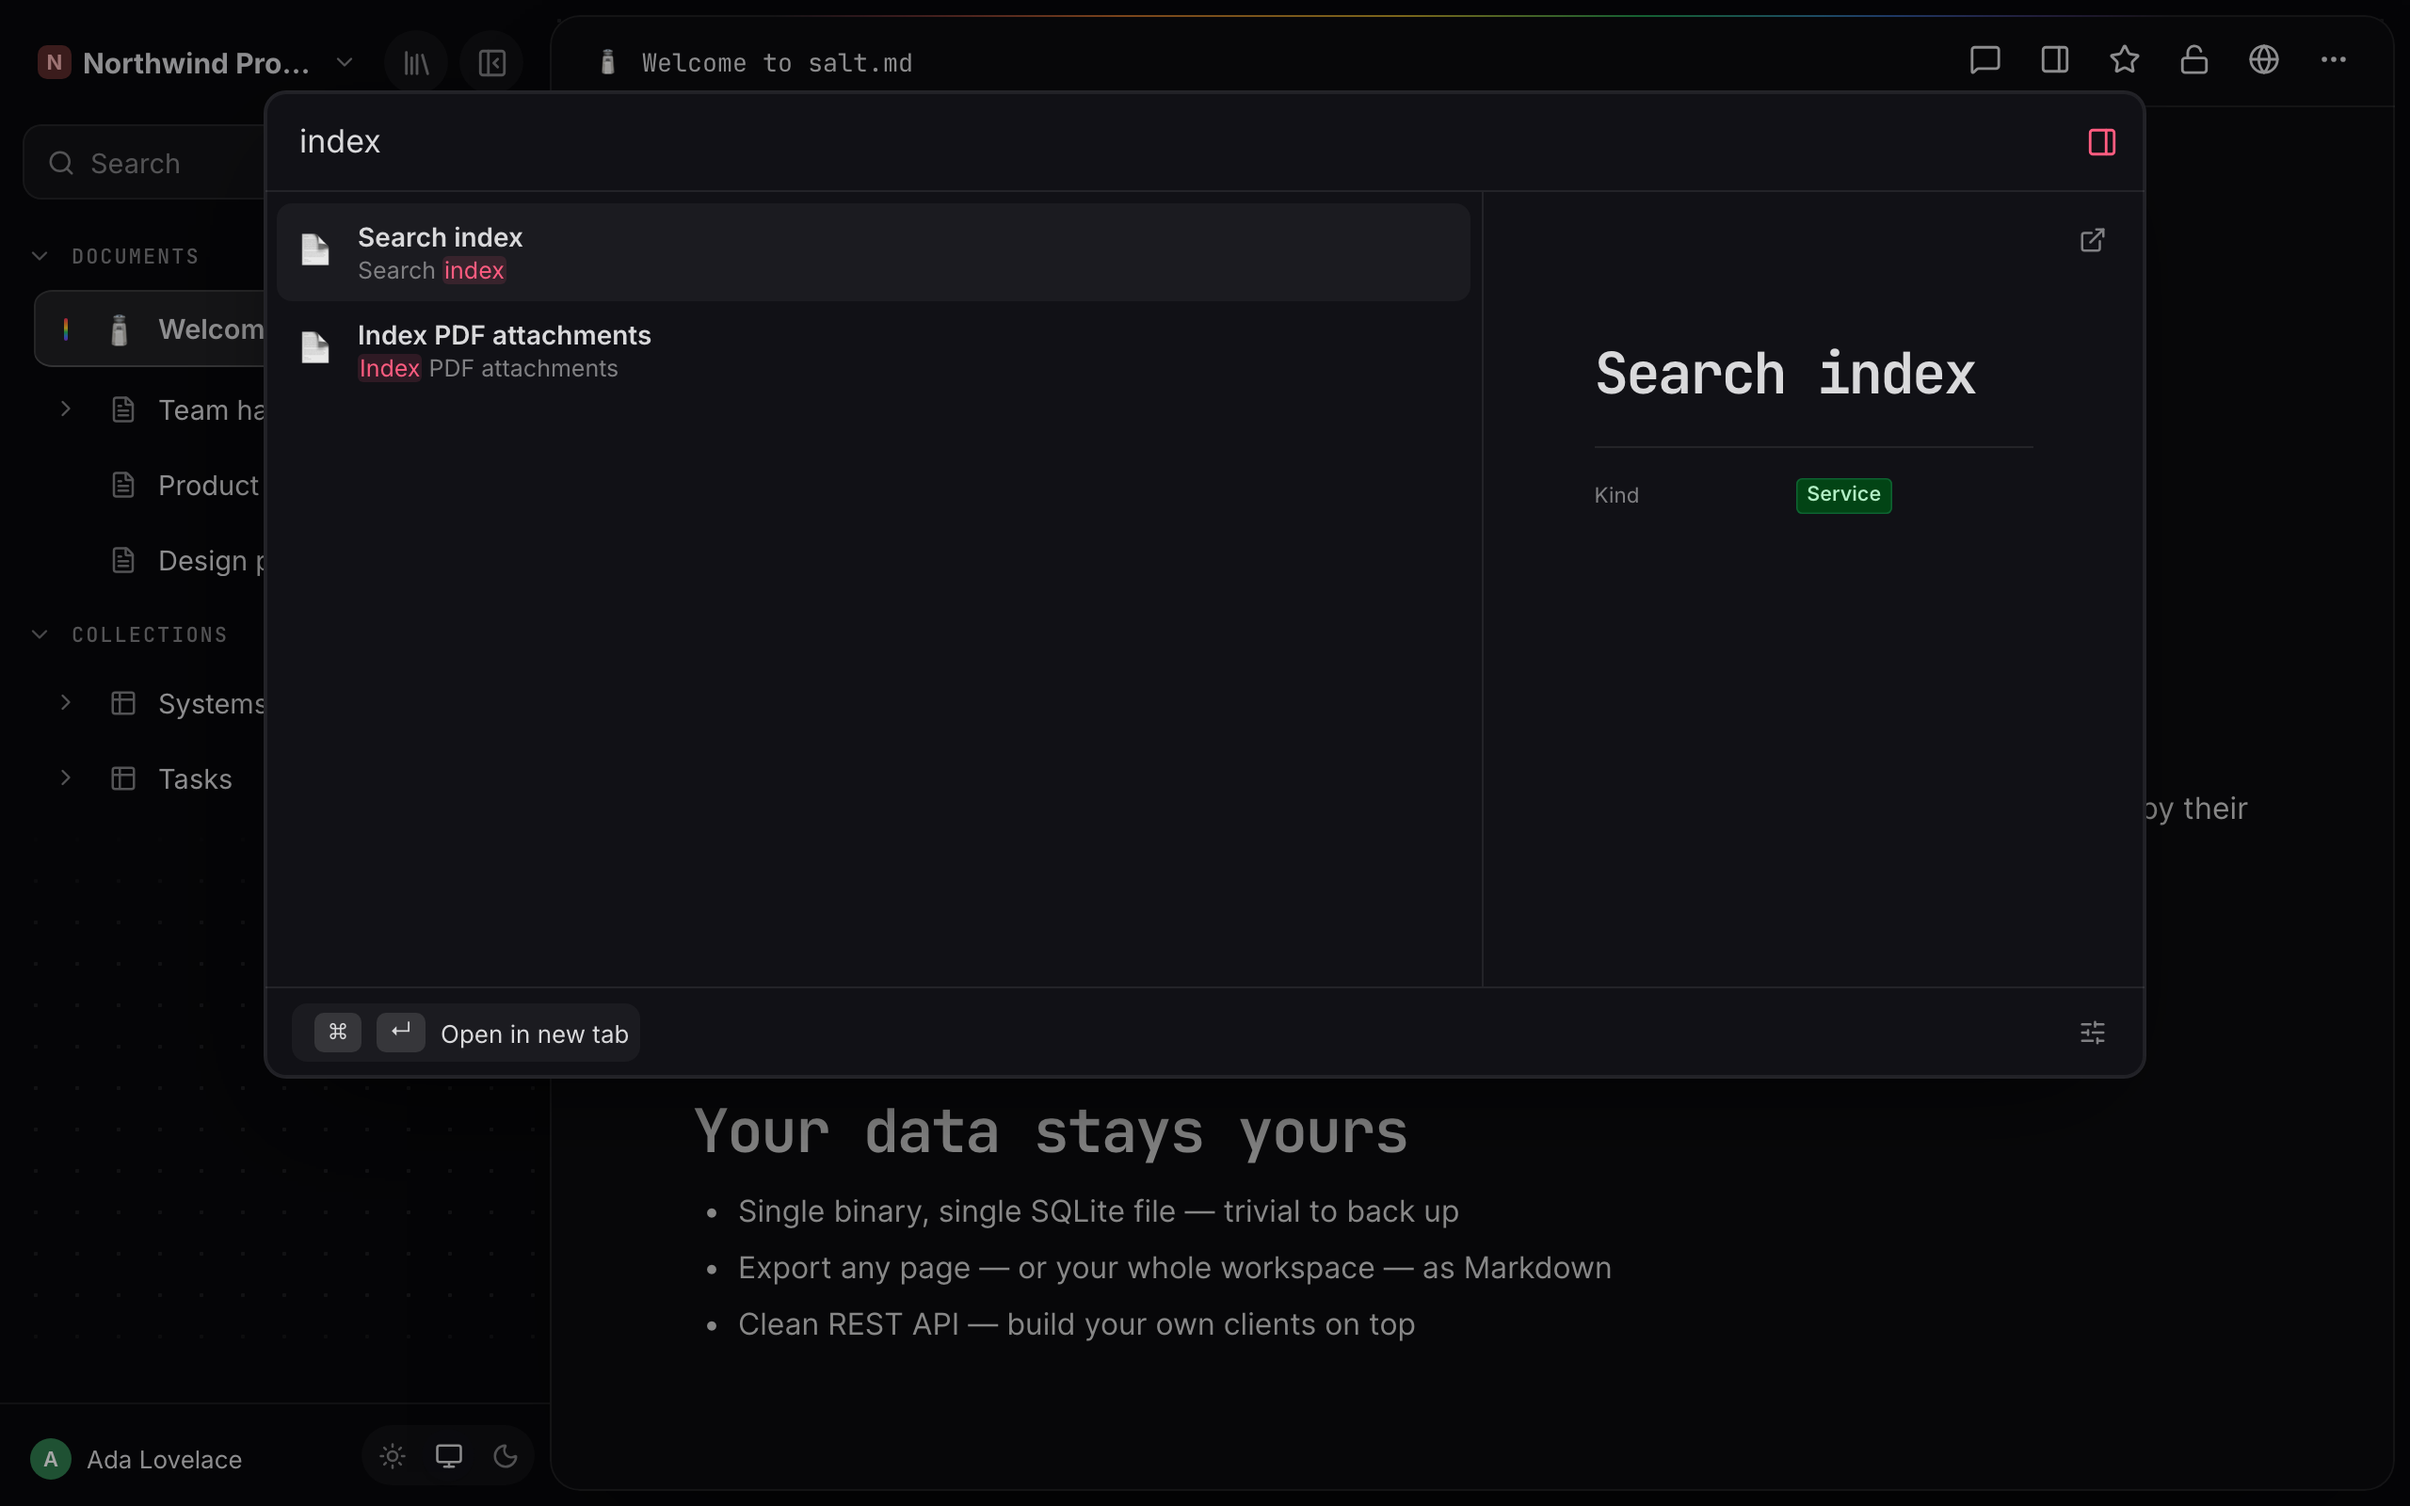
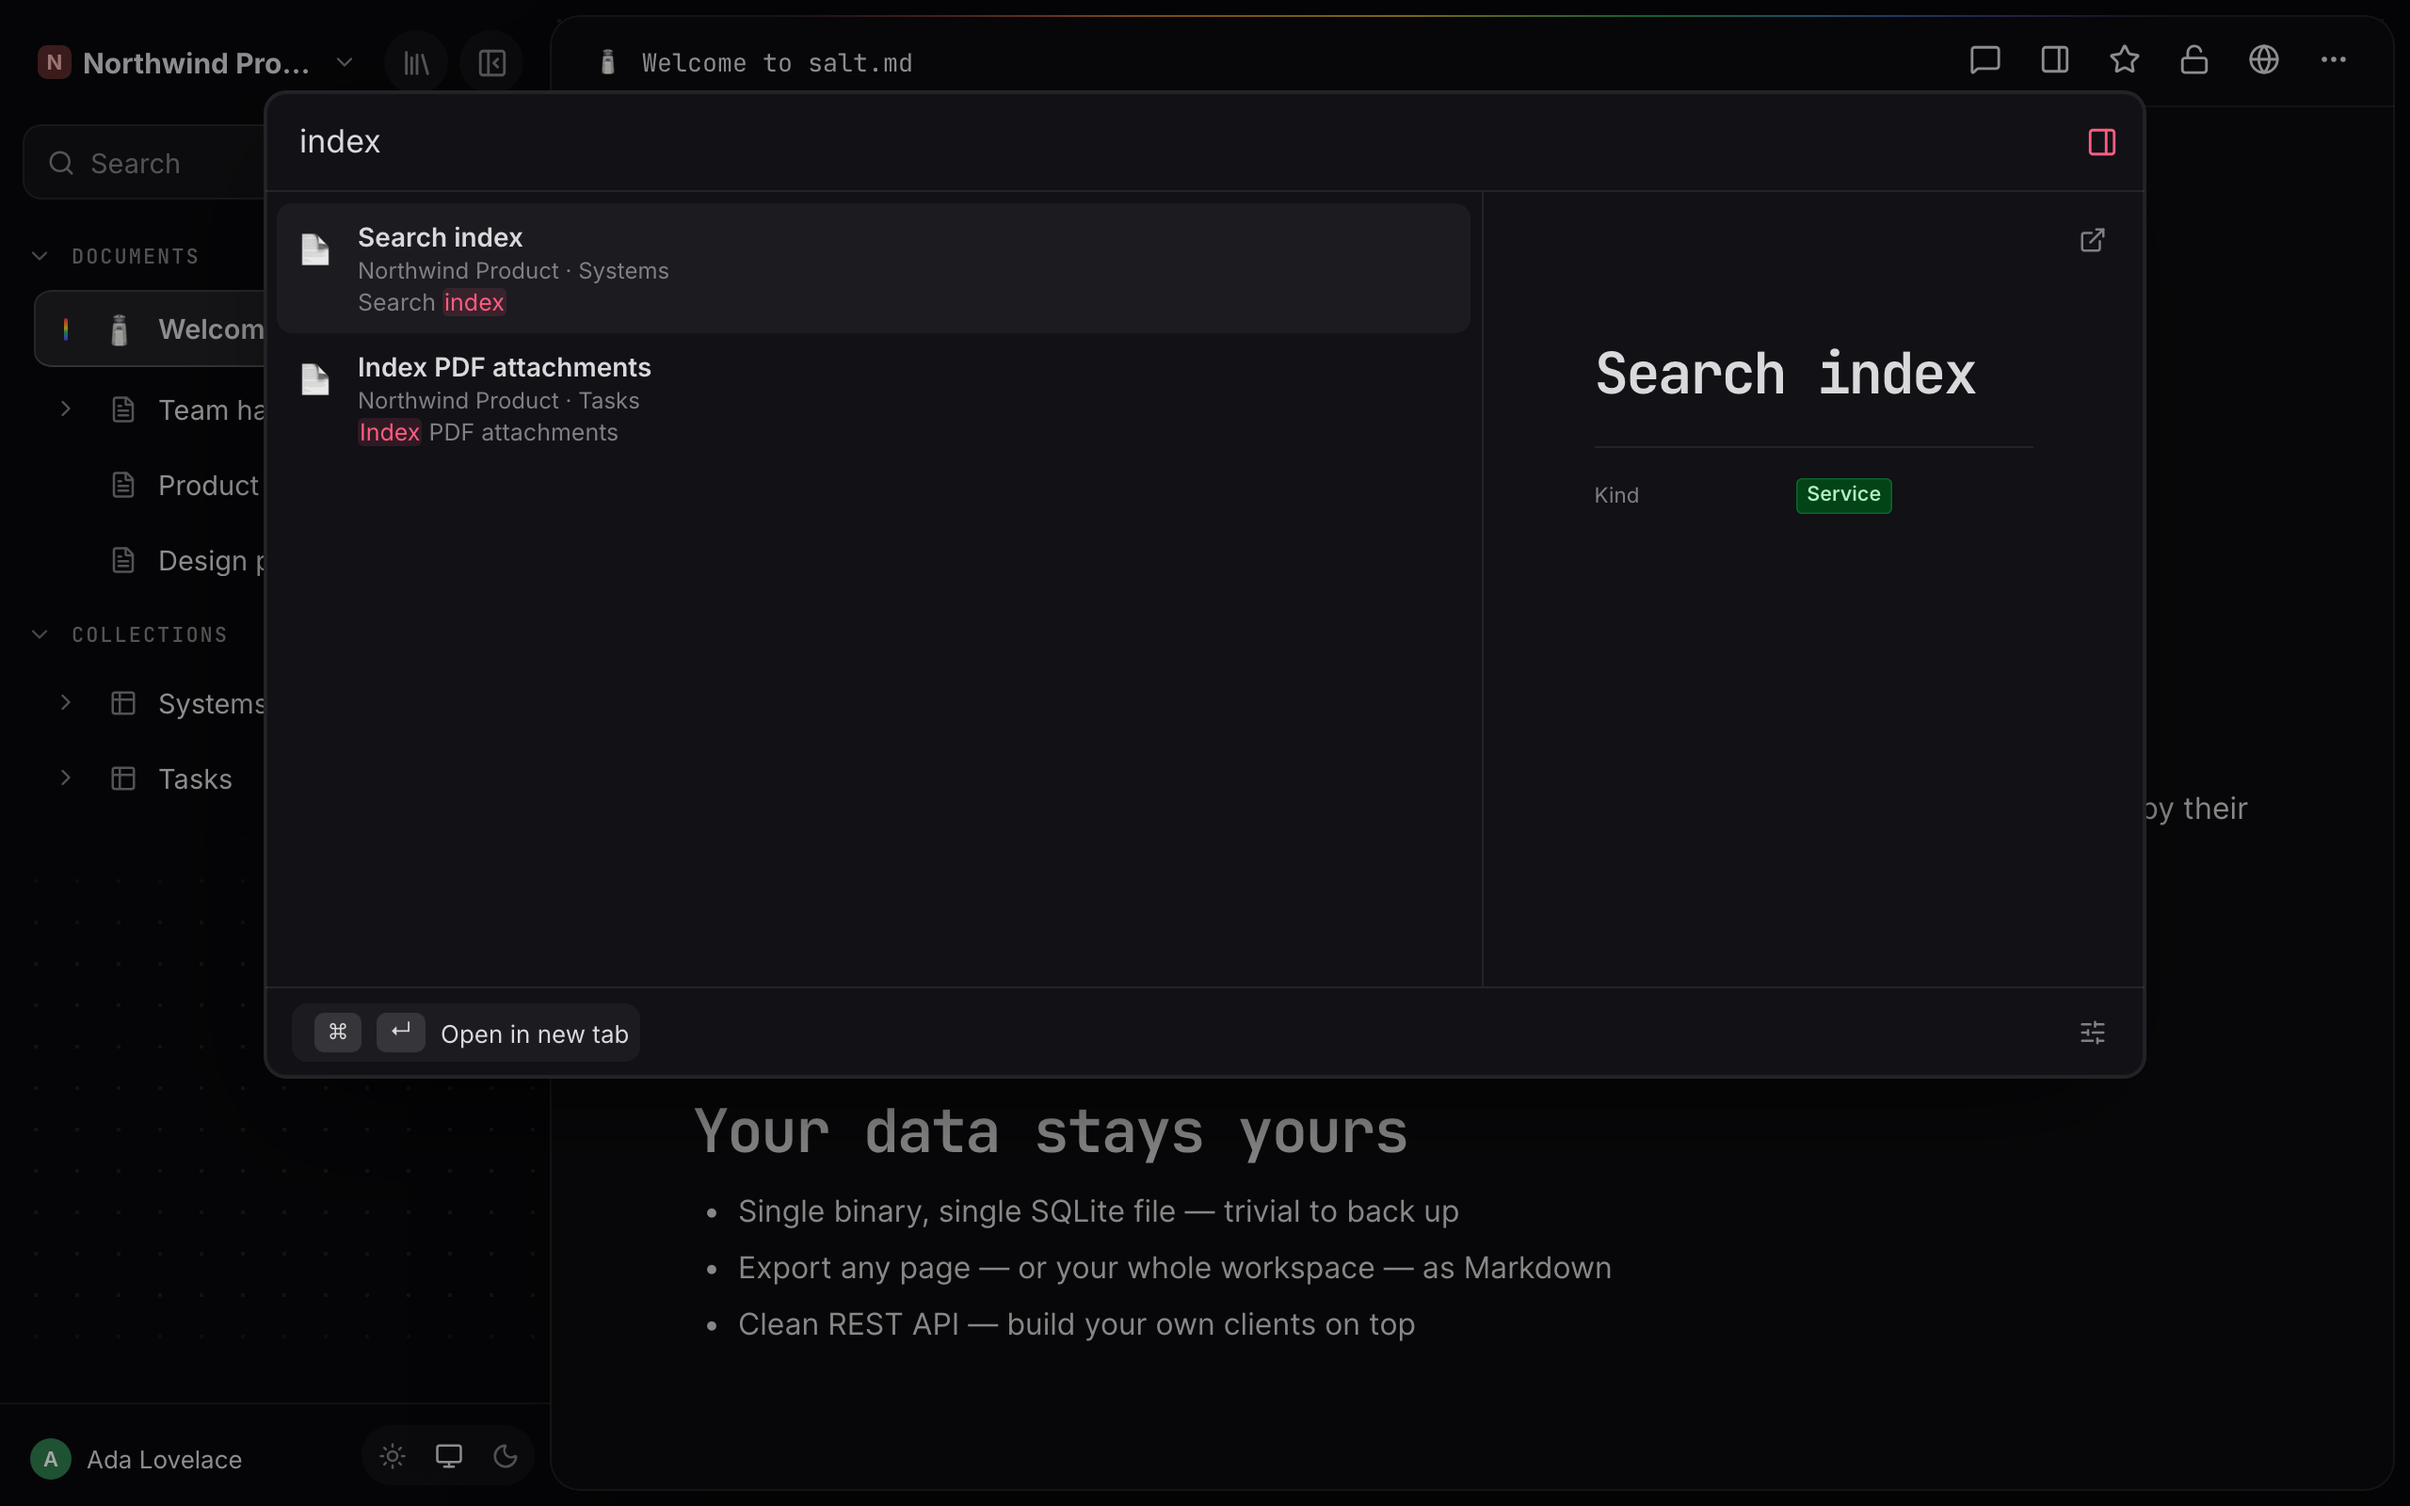
Link collection rows from @-mentions; annotate search hits
- @/[[ picker completes up to five collection rows from the server
  search (rows never enter the client page list), each marked
  'in {collection}'; stale answers fall back to local matches.
- /api/search hits carry workspaceId plus the parent collection, so
  Cmd+K annotates every hit with workspace and collection.
- wiki documents row links and hit annotations; search screenshots
  retaken.

Changed region(s): [[0.125, 0.1562, 0.2812, 0.3125], [0.25, 0.1562, 0.2812, 0.1875]]

diff --git a/web/src/components/Editor.tsx b/web/src/components/Editor.tsx
@@ -2631,12 +2631,18 @@ function BlockContent({
 
   // Page-link menu (shared by the "@" mention trigger and the "[[" wiki-link
   // trigger): existing pages plus a "create new page" action.
+  // Guards out-of-order server answers: one request per keystroke, and a slow
+  // one resolving after a newer round falls back to the local items rather
+  // than clobbering the menu with a stale list.
+  const linkSeq = useRef(0);
   const buildLinkItems = async (query: string) => {
     const q = query.toLowerCase();
     const matches = [...pagesById.values()]
       .filter((p) => !p.trashed && p.id !== provider.pageId)
       .filter((p) => (p.title || 'Untitled').toLowerCase().includes(q))
       .slice(0, 12);
+    const seen = new Set(matches.map((p) => p.id));
+    seen.add(provider.pageId);
     const items = matches.map((p) => ({
       title: p.title || 'Untitled',
       subtext: p.type === 'collection' ? 'Database' : 'Page',
@@ -2646,6 +2652,39 @@ function BlockContent({
           ' ',
         ]),
     }));
+    // Collection rows never enter the client page list (/api/pages leaves out
+    // children of collections), so the local filter above cannot see them —
+    // but they open, peek and backlink like any page. Complete them from the
+    // server search: rows carry their collection in parentTitle, while plain
+    // documents are already covered by the local matches above.
+    if (query.trim()) {
+      const seq = ++linkSeq.current;
+      try {
+        const hits = await api.search(query.trim());
+        if (seq === linkSeq.current) {
+          let added = 0;
+          for (const h of hits) {
+            if (added >= 5 || !h.parentId || seen.has(h.id)) continue;
+            seen.add(h.id);
+            added++;
+            const label = h.title || t('Untitled');
+            const collection = h.parentTitle || t('Untitled');
+            const pageId = h.id;
+            items.push({
+              title: label,
+              subtext: t('in {collection}', { collection }),
+              onItemClick: () =>
+                editor.insertInlineContent([
+                  { type: 'pageLink', props: { pageId, label } },
+                  ' ',
+                ]),
+            });
+          }
+        }
+      } catch {
+        /* offline: local matches only */
+      }
+    }
     if (query.trim()) {
       items.push({
         title: `Create "${query.trim()}"`,

diff --git a/web/src/components/SearchModal.tsx b/web/src/components/SearchModal.tsx
@@ -15,6 +15,17 @@ function escapeHtml(s: string) {
   return s.replace(/&/g, '&amp;').replace(/</g, '&lt;').replace(/>/g, '&gt;');
 }
 
+// Where a hit lives: its workspace, plus the collection for a row. The
+// server carries both ids on every hit (see searchResult); the names resolve
+// locally, so no extra round trip is needed.
+function resultContext(r: SearchResult, workspaces: { id: string; name: string }[]) {
+  const parts: string[] = [];
+  const ws = workspaces.find((w) => w.id === r.workspaceId)?.name;
+  if (ws) parts.push(ws);
+  if (r.parentTitle) parts.push(r.parentTitle);
+  return parts.join(' · ');
+}
+
 // The server wraps matches in \x01…\x02 so we can highlight them safely.
 function snippetHtml(s: string) {
   return escapeHtml(s).replaceAll('\u0001', '<mark>').replaceAll('\u0002', '</mark>');
@@ -414,6 +425,7 @@ export default function SearchModal({
             {showResults &&
               results.map((r) => {
                 const idx = items.findIndex((i) => (i.kind === 'result' || i.kind === 'recent') && i.r.id === r.id);
+                const context = resultContext(r, workspaces);
                 return (
                   <button
                     key={r.id}
@@ -425,6 +437,7 @@ export default function SearchModal({
                     <span className="result-icon"><PageIcon icon={r.icon} size={16} fallback="📄" /></span>
                     <span className="result-body">
                       <span className="result-title">{r.title || t('Untitled')}</span>
+                      {context && <span className="result-context">{context}</span>}
                       {r.snippet && (
                         <span
                           className="result-snippet"

diff --git a/web/src/types.ts b/web/src/types.ts
@@ -86,6 +86,11 @@ export interface SearchResult {
   title: string;
   icon: string;
   snippet: string;
+  /** Workspace the hit lives in, so the palette can name it. */
+  workspaceId: string;
+  /** Collection holding the hit; present only for collection rows. */
+  parentId?: string;
+  parentTitle?: string;
 }
 
 export interface Backlink {

diff --git a/web/src/styles.css b/web/src/styles.css
@@ -2078,6 +2078,14 @@ body:has(.icon-picker) .bn-side-menu {
   font-weight: 600;
 }
 
+.result-context {
+  font-size: 12px;
+  color: var(--muted);
+  white-space: nowrap;
+  overflow: hidden;
+  text-overflow: ellipsis;
+}
+
 .result-snippet {
   font-size: 12.5px;
   color: var(--muted);

diff --git a/server/pages.go b/server/pages.go
@@ -1090,6 +1090,12 @@ type searchResult struct {
 	// "Contract › Termination". Empty when the hit comes from the fallback or
 	// sits under no heading at all.
 	Heading string `json:"heading,omitempty"`
+	// Where the hit lives, so pickers can annotate it: rows name their
+	// collection ("in Projects"), every hit names its workspace. ParentID is
+	// empty for root pages; both parent fields are empty for them.
+	WorkspaceID string `json:"workspaceId"`
+	ParentID    string `json:"parentId,omitempty"`
+	ParentTitle string `json:"parentTitle,omitempty"`
 }
 
 func (s *Server) handleSearch(w http.ResponseWriter, r *http.Request) {
@@ -1159,10 +1165,12 @@ func (s *Server) searchChunks(userID, match string, ws []string, want int) []sea
 		qArgs := append([]any{}, args...)
 		rows, err := s.db.Query(`
 			SELECT c.page_id, p.title, p.icon, c.heading,
-			       snippet(chunks_fts, 3, char(1), char(2), '…', 18)
+			       snippet(chunks_fts, 3, char(1), char(2), '…', 18),
+			       p.workspace_id, p.parent_id, parent.title
 			FROM chunks_fts
 			JOIN page_chunks c ON c.id = chunks_fts.chunk_id
 			JOIN pages p ON p.id = c.page_id
+			LEFT JOIN pages parent ON parent.id = p.parent_id
 			WHERE chunks_fts MATCH ? AND p.trashed_at IS NULL
 			  AND c.workspace_id IN (`+placeholders(len(ws))+`)
 			ORDER BY bm25(chunks_fts, 0.0, 5.0, 3.0, 1.0)
@@ -1175,7 +1183,12 @@ func (s *Server) searchChunks(userID, match string, ws []string, want int) []sea
 		var cand []searchResult
 		for rows.Next() {
 			var res searchResult
-			if rows.Scan(&res.ID, &res.Title, &res.Icon, &res.Heading, &res.Snippet) == nil {
+			var parentID, parentTitle sql.NullString
+			if rows.Scan(&res.ID, &res.Title, &res.Icon, &res.Heading, &res.Snippet, &res.WorkspaceID, &parentID, &parentTitle) == nil {
+				if parentID.Valid {
+					res.ParentID = parentID.String
+					res.ParentTitle = parentTitle.String
+				}
 				cand = append(cand, res)
 			}
 		}
@@ -1211,8 +1224,10 @@ func (s *Server) searchPagesFallback(userID, match string, ws []string, want int
 	for offset, round := 0, 0; len(out) < want && round < 8; round++ {
 		qArgs := append([]any{}, args...)
 		rows, err := s.db.Query(`
-			SELECT p.id, p.title, p.icon, snippet(pages_fts, 2, char(1), char(2), '…', 14)
+			SELECT p.id, p.title, p.icon, snippet(pages_fts, 2, char(1), char(2), '…', 14),
+			       p.workspace_id, p.parent_id, parent.title
 			FROM pages_fts JOIN pages p ON p.id = pages_fts.id
+			LEFT JOIN pages parent ON parent.id = p.parent_id
 			WHERE pages_fts MATCH ? AND p.trashed_at IS NULL AND p.workspace_id IN (`+placeholders(len(ws))+`)
 			ORDER BY bm25(pages_fts, 0.0, 5.0, 1.0)
 			LIMIT 60 OFFSET `+strconv.Itoa(offset), qArgs...)
@@ -1222,7 +1237,12 @@ func (s *Server) searchPagesFallback(userID, match string, ws []string, want int
 		var cand []searchResult
 		for rows.Next() {
 			var res searchResult
-			if rows.Scan(&res.ID, &res.Title, &res.Icon, &res.Snippet) == nil {
+			var parentID, parentTitle sql.NullString
+			if rows.Scan(&res.ID, &res.Title, &res.Icon, &res.Snippet, &res.WorkspaceID, &parentID, &parentTitle) == nil {
+				if parentID.Valid {
+					res.ParentID = parentID.String
+					res.ParentTitle = parentTitle.String
+				}
 				cand = append(cand, res)
 			}
 		}

diff --git a/wiki/search.md b/wiki/search.md
@@ -49,9 +49,9 @@ When nothing matches, the box says **No results**.
 
 ## What a result looks like
 
-Each hit shows the page icon, the page title (or *Untitled* if it has none) and
-an excerpt with your search words highlighted. The excerpt is trimmed to two
-lines; `…` marks where text was cut away on either side.
+Each hit shows the page icon, the page title (or *Untitled* if it has none),
+where it lives, and an excerpt with your search words highlighted. The excerpt
+is trimmed to two lines; `…` marks where text was cut away on either side.
 
 The excerpt comes from the text of the passage that matched, not from the top
 of a 4000-word document: roughly eighteen words, with the matching words
@@ -62,9 +62,9 @@ look like a page's opening paragraph.
 
 At most **20 results** are returned.
 
-A result does not say which workspace it lives in. If you have two pages of the
-same name in two workspaces, the list will not tell them apart. Open one, or
-narrow the search with a word that only one of them contains.
+Under the title, each hit names where it lives: its workspace, and for a
+database row the collection too. Two pages of the same name in two workspaces
+tell themselves apart.
 
 ## What is indexed
 

diff --git a/wiki/editor-blocks.md b/wiki/editor-blocks.md
@@ -388,7 +388,10 @@ Two triggers, one menu:
 
 The menu lists up to **twelve** pages whose titles contain what you typed, each
 marked *Page* or *Database*, excluding the page you are on and anything in the
-trash. Once you have typed something it also offers `Create "…"`, which makes a
+trash. Beneath them it offers up to **five** collection rows matching the
+search, each marked *in* its collection: rows open, peek and backlink like any
+page. A row with sub-pages of its own is listed among the twelve as a *Page*.
+Once you have typed something it also offers `Create "…"`, which makes a
 page with that title and links it in one motion, **at the top level of your
 default workspace**, not under the page you are writing in.
 
@@ -400,9 +403,6 @@ and nothing else, so a hand-typed address leaves the page an island.
 Pages that link *to* the page you are reading are listed as **Linked from · N**
 under the body, or in the structure panel when that is open. See
 [Pages](pages.md#page-links-and-backlinks).
-
-Bare database rows are not offered in the menu. A row with sub-pages of its own
-is.
 
 ## Files: three ways in
 
